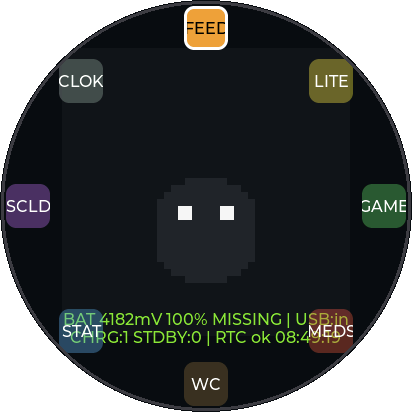
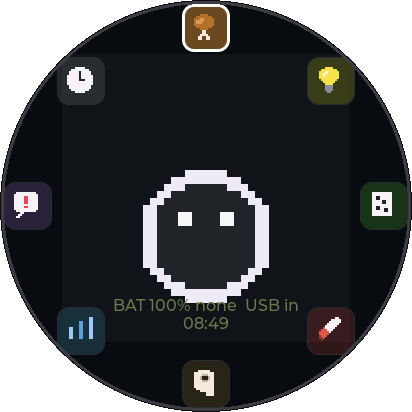
Pin Phase 2/3 contracts: port seam gains now/clock_shift/random + full sfx cue set; UI API gains start/state; sim finds LVGL in cloud containers

diff --git a/main/tama_port.h b/main/tama_port.h
@@ -5,17 +5,29 @@
 #ifndef TAMA_PORT_H
 #define TAMA_PORT_H
 
+#include <stddef.h>
+#include <stdint.h>
+
 #ifdef __cplusplus
 extern "C" {
 #endif
 
-/* sound cues (synthesized jingles; see tama_sfx.c) */
+/* sound cues (synthesized chirps/jingles; see tama_sfx.c) */
 enum {
     TSFX_TICK_UP,     /* knob rotate clockwise */
     TSFX_TICK_DN,     /* knob rotate counter-clockwise */
     TSFX_CONFIRM,     /* action accepted */
     TSFX_DENY,        /* action refused (e.g. feeding when full) */
     TSFX_BACK,        /* long-press back/cancel */
+    TSFX_EAT,         /* munching chirp */
+    TSFX_CLEAN,       /* flush sweep */
+    TSFX_SCOLD,       /* stern buzz */
+    TSFX_CURE,        /* medicine worked */
+    TSFX_CALL,        /* attention call (icon lit) */
+    TSFX_WIN,         /* game won */
+    TSFX_LOSE,        /* game lost */
+    TSFX_EVOLVE,      /* evolution fanfare */
+    TSFX_DEATH,       /* death chime */
 };
 
 /* LED moods (owned by the fx task; one active at a time) */
@@ -27,14 +39,35 @@ enum {
     TLED_SLEEP,       /* faint blue breathing */
 };
 
-#include <stddef.h>
-
 void tama_port_sfx(int cue);
 void tama_port_led_mood(int mood);
 void tama_port_brightness(int pct);
+
+/* Ask the platform to persist the pet. Called from the LVGL/UI task right
+ * after a TEV_STATE_DIRTY; the device serializes tama_ui_state() immediately
+ * (cheap memcpy) and commits to NVS from a lower-priority task. */
 void tama_port_save_request(void);
+
 /* large buffer alloc: PSRAM on device, malloc in the sim */
 void *tama_port_big_alloc(size_t size);
+
+/* Current pet-epoch, in seconds. Pet-epoch 0 is midnight of day 0, so
+ * hour-of-day = (now/3600)%24 — the pet's wall clock and its life clock are
+ * the same axis. Device: NVS-persisted snapshot + esp_timer (scaled by
+ * TAMA_TIME_SCALE for demos); frozen across power-off (hibernation).
+ * Sim: a plain settable variable. Monotonic between clock_shift calls. */
+uint32_t tama_port_now(void);
+
+/* The user moved the wall clock by delta_s seconds (new - old). The UI has
+ * already called tama_clock_rebase() on the pet; the platform shifts its
+ * epoch base by the same delta and persists it. tama_port_now() reflects
+ * the shift immediately. */
+void tama_port_clock_shift(int32_t delta_s);
+
+/* Non-gameplay randomness (game numbers, new-egg seeds): esp_random() on
+ * device, any seeded PRNG in the sim. Gameplay randomness stays inside
+ * tama_logic's persisted RNG. */
+uint32_t tama_port_random(void);
 
 #ifdef __cplusplus
 }

diff --git a/main/tama_ui.h b/main/tama_ui.h
@@ -1,14 +1,19 @@
 #ifndef TAMA_UI_H
 #define TAMA_UI_H
 
+#include <stdbool.h>
+#include <stddef.h>
+#include <stdint.h>
+
 #include "lvgl.h"
+#include "tama_logic.h"
 
 #ifdef __cplusplus
 extern "C" {
 #endif
 
-/* Live diagnostics shown on the Phase 0 screen (filled by tama_main's
- * diag task; consumed by tama_ui_tick on the LVGL task). */
+/* Live diagnostics (filled by tama_main's diag task; consumed on the LVGL
+ * task by the battery status page). The sim fills representative values. */
 typedef struct {
     volatile int      batt_mv;        /* bsp_battery_get_voltage() */
     volatile int      batt_pct;       /* bsp_battery_get_percent() */
@@ -23,7 +28,20 @@ typedef struct {
 
 extern tama_diag_t g_tama_diag;
 
-void tama_ui_build(void);            /* build all widgets once (LVGL lock held) */
+/* Build all widgets once (call with the LVGL lock held, before start). */
+void tama_ui_build(void);
+
+/* Bring the game to life. `blob`/`len` is the persisted state from NVS (or
+ * NULL/0). A valid blob resumes the pet in the room; anything else is a
+ * first boot: the UI opens the clock-set screen and creates a fresh egg
+ * once the user confirms the time. Call once, after tama_ui_build(). */
+void tama_ui_start(const uint8_t *blob, size_t len);
+
+/* The live pet. Owned by the UI and mutated only on the LVGL/UI task; the
+ * platform reads it inside tama_port_save_request() (same task context)
+ * to serialize, and the sim uses it to script scenes. */
+tama_state_t *tama_ui_state(void);
+
 void tama_ui_tick(void);             /* 80 ms tick in the LVGL task */
 void tama_ui_on_knob(int dir);       /* +1 / -1, already burst-gated */
 void tama_ui_on_button(void);        /* short press */
